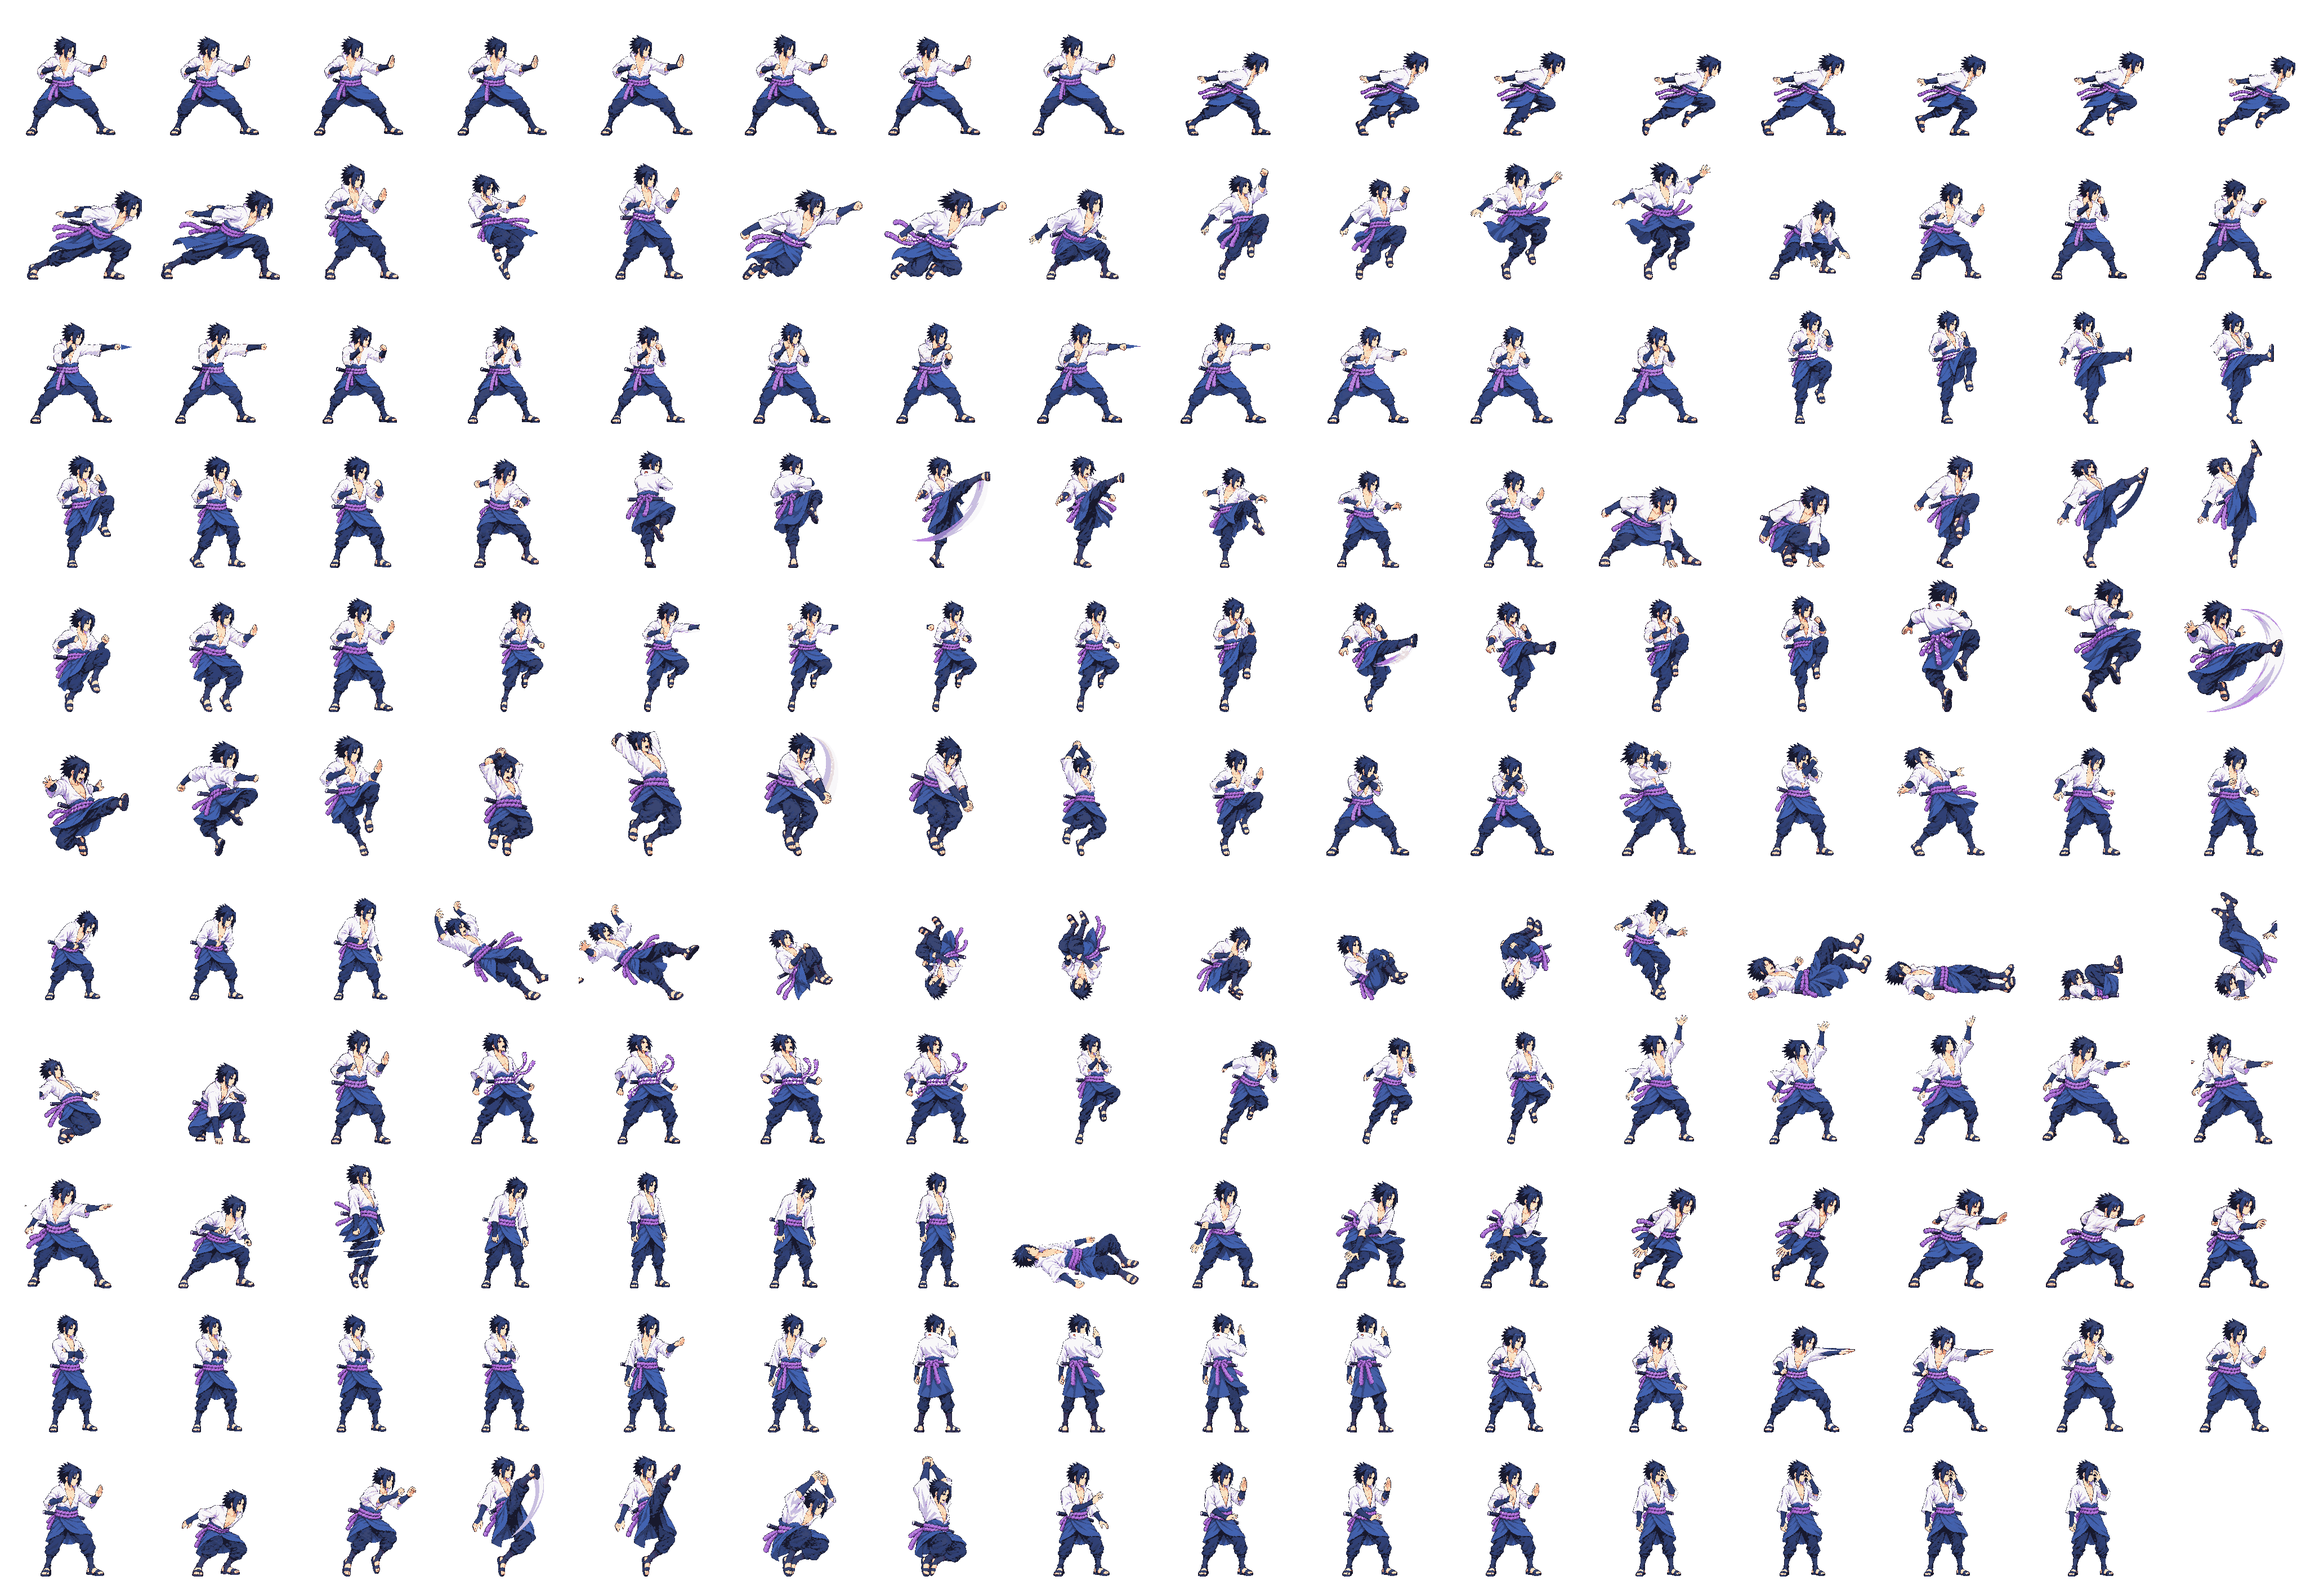
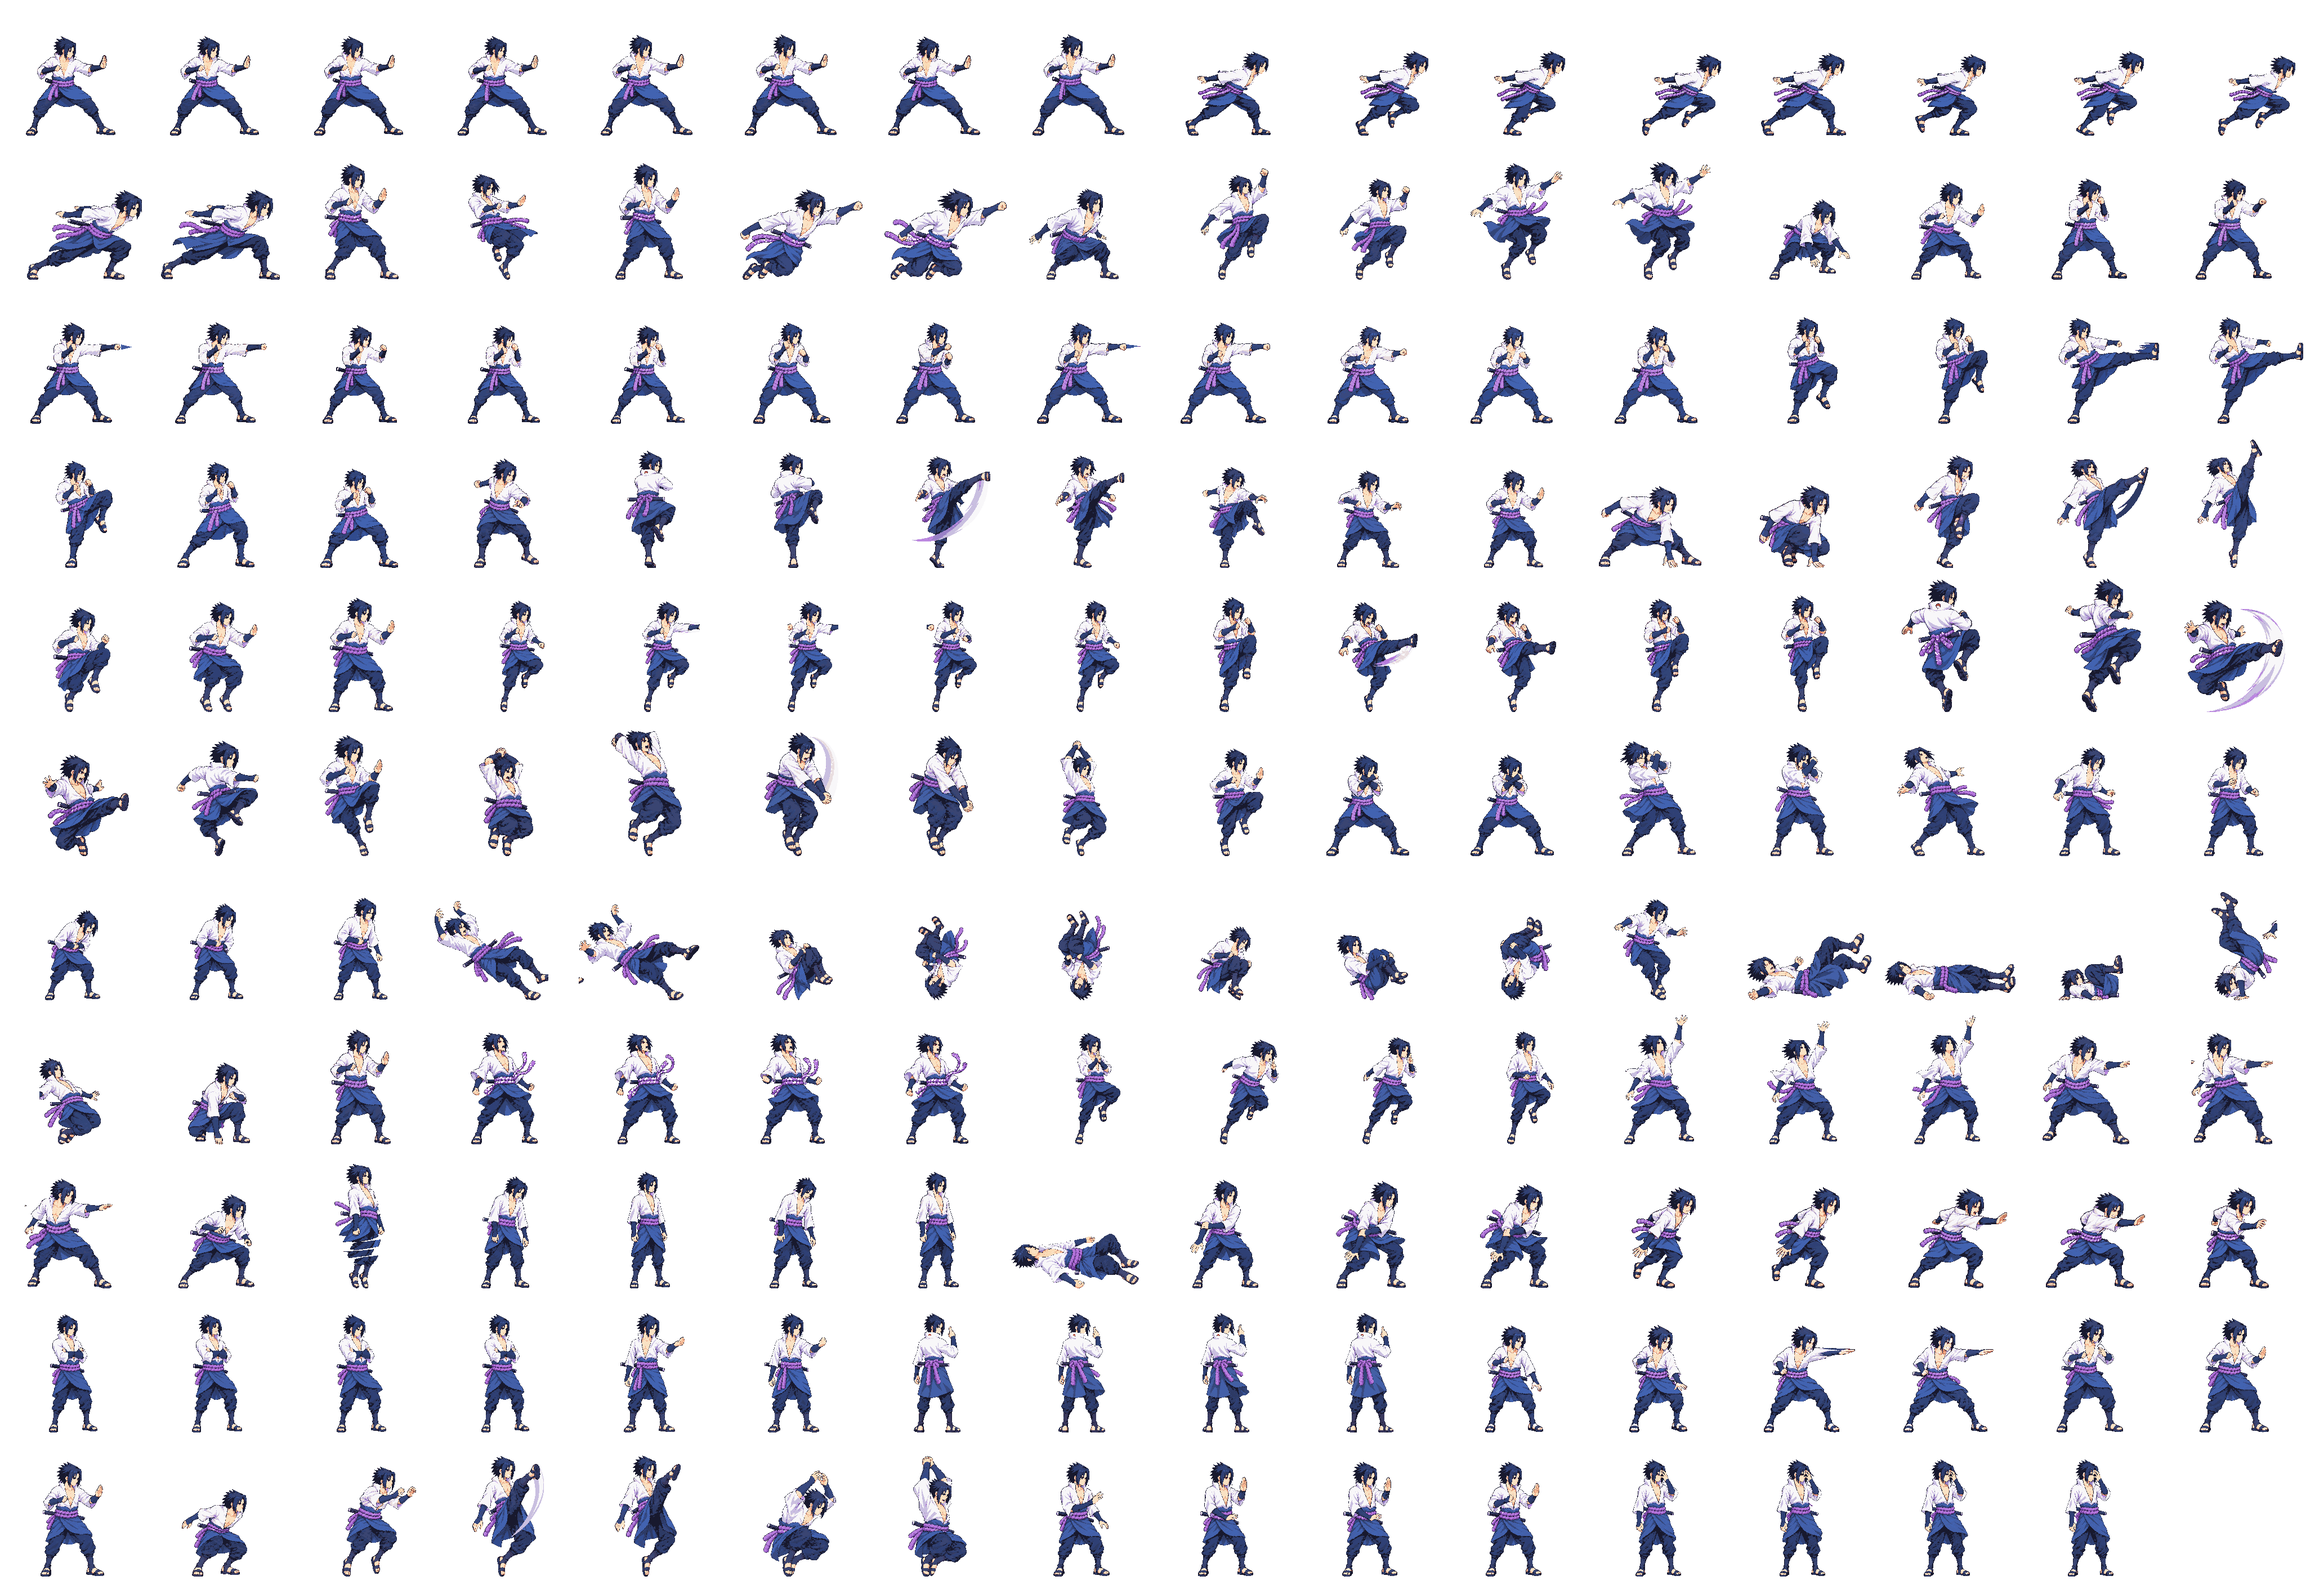
art(sasuke): add title-style front kick candidate

Changed region(s): [[0.75, 0.1875, 1.0, 0.25], [0.0312, 0.2812, 0.1875, 0.375]]

diff --git a/art/REVIEW.md b/art/REVIEW.md
@@ -53,6 +53,9 @@ Status values: `needs review` · `approved` · `rejected`.
 
 | date | character | asset | file | version | status | what changed | QA notes |
 |---|---|---|---|---|---|---|---|
+| 2026-10-11 | sasuke | light3 | [light3_v07.png](characters/sasuke/raw/light3_v07.png) | v07 | needs review | Title-style right near-leg front kick with measured active-foot placement and lowered neutral recovery. | Measured B stitch 0.9984; 48-color new-strip gate exits 0 without clipping or exemption. Active heel reaches x250; f6 crown y65 vs idle y64, soles y240. [Actual packed frames](characters/sasuke/production/title-style/packed-light3-v07.png) · [heads sheet](scale/heads-sasuke.png) · [QA](characters/sasuke/production/title-style/QA.md). Full-set final review pending. |
+| 2026-10-11 | sasuke | light3 | [light3_v06.png](characters/sasuke/raw/_rejected/light3_v06.png) | v06 | rejected | Kick with corrected active frame placement. | Technical visual reject: f6 neutral return sits about 11 px taller than approved idle. [Packed QA](characters/sasuke/production/title-style/packed-light3-v06.png). |
+| 2026-10-11 | sasuke | light3 | [light3_v05.png](characters/sasuke/raw/_rejected/light3_v05.png) | v05 | rejected | First title-style front kick. | Technical reject: active sandal clipped 21/11 px at right cell edge at the anatomical scale. [Packed QA](characters/sasuke/production/title-style/packed-light3-v05-qa.png). |
 | 2026-10-11 | sasuke | light1 | [light1_v07.png](characters/sasuke/raw/light1_v07.png) | v07 | needs review | Corrected lead jab with bent-arm startup and two closed fists in recovery. | Measured stitch B factor 0.9697; 48-color new-strip scale gate exits 0 without exemption. [Actual packed cells](characters/sasuke/production/title-style/packed-light1-v07.png) · [heads sheet](scale/heads-sasuke.png) · [QA](characters/sasuke/production/title-style/QA.md). Full-set final review pending. |
 | 2026-10-11 | sasuke | light2 | [light2_v06.png](characters/sasuke/raw/light2_v06.png) | v06 | needs review | Title-style seven-frame right rear straight, with a narrower head and separated recovery after v05 failed. | Measured stitch B factor 0.9686; 48-color new-strip scale gate exits 0 without exemption. [Actual packed cells](characters/sasuke/production/title-style/packed-light2-v06.png) · [heads sheet](scale/heads-sasuke.png) · [QA](characters/sasuke/production/title-style/QA.md). Full-set final review pending. |
 | 2026-10-11 | sasuke | light2 | [light2_v05.png](characters/sasuke/raw/_rejected/light2_v05.png) | v05 | rejected | First title-style rear straight attempt. | Technical reject: 1.24× f1 head-mask pop, then a 1.09× uniform head reading after isolating the fist; upper hair width 46–48 px versus 40 px idle at packed scale. [Packed QA](characters/sasuke/production/title-style/packed-light2-v05-qa.png). |

diff --git a/art/characters/sasuke/production/title-style/QA.md b/art/characters/sasuke/production/title-style/QA.md
@@ -37,6 +37,12 @@ User-approved source: `reference/title_style_draft_v01.png`, plus the 256 px neu
 - v06 packed but failed visual pose QA: f1 was almost fully extended in startup and f6 ended with an open lead palm. It is now a technical reject under `raw/_rejected/`, with both parts preserved under `raw/_parts/_rejected/` and [old packed cells](packed-light1-v06.png) retained for comparison.
 - v07 redrew both parts: f1 is a bent-arm halfway jab, f2/f3 are extended impact, f4 retracts, and f6 returns to two closed fists near the face. The stitch measured B factor 0.9697, final B/A 0.974. The 48-color new-strip gate exits 0 without exemption. [All seven actual atlas cells](packed-light1-v07.png) were inspected at native resolution; shared y240 soles and narrow head/lean anatomy persist. User final batch review remains pending.
 
+## Light3 v05 → v07
+
+- v05 front kick used a measured 0.9762 B stitch but at the anatomically appropriate 190 px attack envelope, active frames clipped 21/11 px to the right. [Actual packed QA](packed-light3-v05-qa.png) preserves the evidence. Scaling the entire strip down to 180 px made the head 0.90× idle and still did not solve the pose transition, so v05 is a technical reject.
+- v06 used the same active pose with measured frame offsets (-25,0) and (-15,0), removing right clipping while keeping one anatomical scale. Its last recovery pose remained about 11 px taller than idle; [actual packed v06 cells](packed-light3-v06.png) show the pop. v06 is a technical visual reject, not an approved animation.
+- v07 kept the active pose, redrew only the recovery posture, and measured B factor 0.9984 (A scaled 0.9956, final B/A 0.977). The same measured frame offsets place the kicking sandal inside the 256 cell. The 48-color new-strip gate exits 0 with no clip warning or exemption. [All seven actual atlas cells](packed-light3-v07.png) were inspected; active f2/f3 extend to x250 without clipping, supporting foot and recovery soles stay at y240, and f6 crown y65 nearly matches idle y64. The kick's taller one-leg pose is preserved rather than forced to the crouched idle height. User final review remains pending.
+
 ## Remaining checks
 
 The escalated local Vite adapter served port 5222. The in-app browser showed two Sasuke fighters at the same game depth with the new idle, matched apparent height and grounded feet. The console logged `[sprites] using custom sheet for sasuke (42 animations)` and no errors. The production build passed (80 modules) and the adapter's HTTP self-check returned four 200 responses. Full production, full-character strict scale, contact/hurtbox validation, user image approval, integration and deployment remain open.

diff --git a/docs/TASKS.md b/docs/TASKS.md
@@ -20,7 +20,7 @@ The single list of work in flight, shared by the user, Claude and Codex. The pro
 
 ## Milestone M2: training, input, hit accuracy (v0.3.0)
 
-**ART-SAS-TITLE-20261011**, Codex, in-progress. files: art/characters/sasuke/, art/manifest.json, art/TRACKER.md, art/REVIEW.md, art/scale/heads-sasuke.png, public/characters/sasuke/, docs/TASKS.md, CHANGELOG.md. User approved title-style draft and scaled pilot, authorized all 42 animations plus 3 UI without intermediate image gates. Branch `art/sasuke-title-production`, real sparse worktree. Idle v07, guard v04, run v05, light1 v07 and light2 v06 have native QA; guard v03, run v04, light1 v06 and light2 v05 were technically rejected. Live equal-depth idle/custom-sheet load passed. Full batch, user final review and Claude integration remain open.
+**ART-SAS-TITLE-20261011**, Codex, in-progress. files: art/characters/sasuke/, art/manifest.json, art/TRACKER.md, art/REVIEW.md, art/scale/heads-sasuke.png, public/characters/sasuke/, docs/TASKS.md, CHANGELOG.md. User approved title-style draft and scaled pilot, authorized all 42 animations plus 3 UI without intermediate image gates. Branch `art/sasuke-title-production`, real sparse worktree and draft PR #71 with committed WIP preview. Idle v07, guard v04, run v05, light1 v07, light2 v06 and light3 v07 have native QA; guard v03, run v04, light1 v06, light2 v05 and light3 v05/v06 were technically rejected. Live equal-depth idle/custom-sheet load passed. Full batch, user final review and Claude integration remain open.
 
 Cast proportion review: **ART-CAST-SAMPLES**, Codex, review. User requested a quick sample checkpoint before the full frame audit. Branch `art/cast-scale-samples` compares production-matched sprites, Naruto guard/block/spot-dodge head crops, and approved turnarounds. No art approvals or gameplay changes. Full audit paused for user feedback; Claude owns integration.
 

diff --git a/art/TRACKER.md b/art/TRACKER.md
@@ -140,7 +140,7 @@ Sprite Lab; if his hair adds clearly less height and his head comes out bigger, 
 | 4 | run | 8 | - | **yes** | 150 | approved | v05 | v02 | Title-style v05 candidate needs full-set review; v04 was rejected for head pop and clipped flight poses. v05 measured stitch and new-strip gate pass; all eight actual atlas cells inspected. Old v02 remains approved. |
 | 5 | light1 | 7 | 2/2/3 | **yes** | 180 | approved | v07 | v01 | Title-style v07 corrects v06 early extension/open-palm recovery; measured stitch, new-strip gate and actual packed seven-frame QA pass. Full-set final review pending; old v01 remains approved. |
 | 5 | light2 | 7 | 2/2/3 | **yes** | 180 | approved | v06 | v02 | Title-style v06 candidate: measured stitch, 48-color new-strip gate without exemption and all seven actual cells inspected. v05 rejected for inflated head; v02 remains approved pending final batch review. |
-| 5 | light3 | 7 | 2/2/3 | **yes** | 215 | approved | v02 | v02 | User approved latest version 2026-10-10; documented QA deviations accepted. Ready for integration. |
+| 5 | light3 | 7 | 2/2/3 | **yes** | 190 | approved | v07 | v02 | Title-style v07 candidate: measured stitch, measured active-foot offsets, 48-color new-strip gate and seven actual packed frames pass; v05 clipped, v06 had a tall recovery pop. Full-set final review pending; old v02 remains approved. |
 | 5 | light4 | 8 | 3/2/3 | **yes** | 207 | approved | v01 | v01 | User approved the final batch 2026-10-10 (chat with Claude, PR #9). |
 | 5 | heavy | 8 | 3/2/3 | **yes** | 218 | approved | v06 | v06 | User approved latest version 2026-10-10; documented QA deviations accepted. Ready for integration. |
 | 5 | airLight1 | 5 | 1/2/2 | **yes** | 198 | approved | v01 | v01 | User approved the final batch 2026-10-10 (chat with Claude, PR #9). |

diff --git a/CHANGELOG.md b/CHANGELOG.md
@@ -11,6 +11,8 @@ Fixed, Security. Reference task ids and ADRs where useful.
 
 ## [Unreleased]
 
+- art(sasuke): add title-style front kick v07 with measured placement, unclipped active sandals and a recovery pose that rejoins the approved idle height; archive two rejected attempts.
+
 - art(sasuke): correct the lead jab's early extension and open-hand recovery in title-style v07; preserve rejected v06 and inspect all seven packed frames.
 
 - art(sasuke): add title-style rear straight v06 candidate with measured stitch, strict new-strip scale pass and actual-atlas QA; archive enlarged-head v05 and flag light1 recovery for correction.
